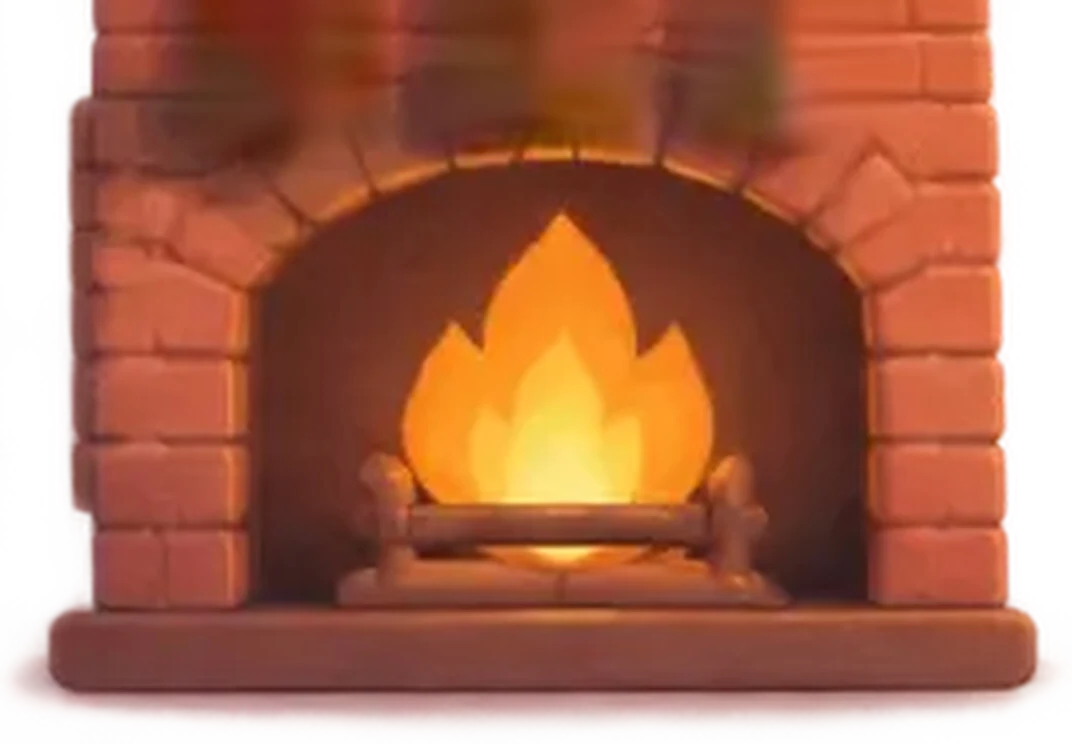
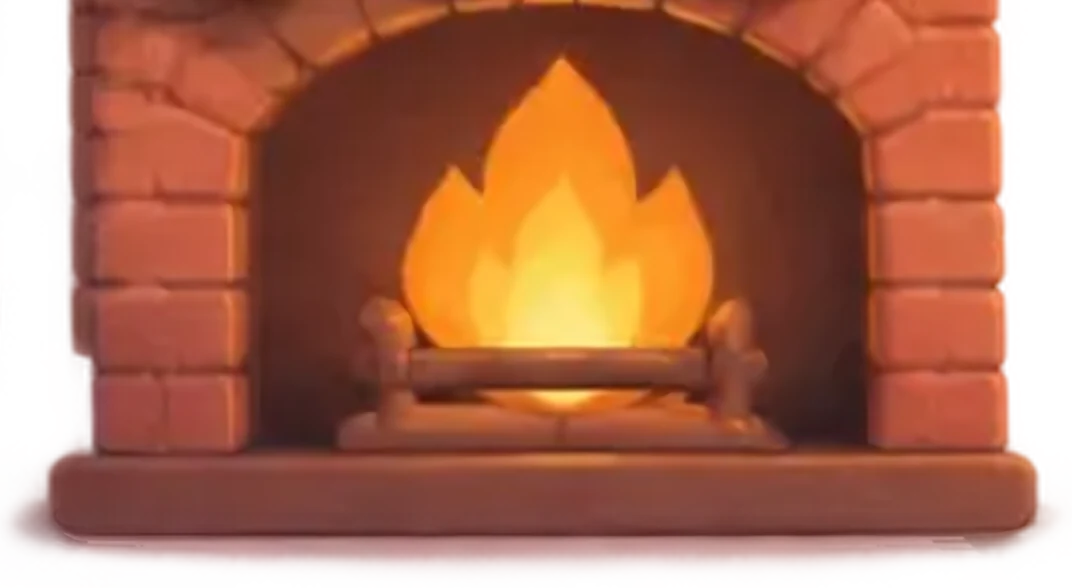
Fireplace: cut below built-in stockings (no retouching), animated flames and embers
Claude-Session: https://claude.ai/code/session_01DcYV4ZTP76Lzk9ANj8ic4t

diff --git a/src/app/globals.css b/src/app/globals.css
@@ -502,7 +502,7 @@ html[data-theme="film"] .countdown-note, html[data-theme="film"] .section-title,
 .hearth--film .hearth__socks { position: relative; z-index: 3; margin-bottom: -34px; }
 .hearth__bottom { position: relative; }
 .hearth__bottom img { display: block; width: 100%; }
-.hearth__glow { position: absolute; left: 22%; right: 22%; top: 30%; bottom: 14%; border-radius: 50%; background: radial-gradient(circle, rgba(255, 190, 90, 0.5), transparent 68%); mix-blend-mode: screen; animation: candle 1.3s ease-in-out infinite alternate; pointer-events: none; }
+.hearth__glow { position: absolute; left: 18%; right: 18%; top: 0; bottom: 18%; border-radius: 50%; background: radial-gradient(circle, rgba(255, 190, 90, 0.5), transparent 68%); mix-blend-mode: screen; animation: candle 1.3s ease-in-out infinite alternate; pointer-events: none; }
 .sock__img { display: block; width: 62px; margin: 0 auto; filter: drop-shadow(0 5px 5px rgba(0, 0, 0, 0.4)); transition: transform 0.2s; }
 .sock:hover .sock__img { transform: translateY(4px) rotate(-4deg); }
 html[data-theme="film"] .sock--c1 .sock__img { filter: hue-rotate(105deg) saturate(0.75) drop-shadow(0 5px 5px rgba(0, 0, 0, 0.4)); }
@@ -546,3 +546,13 @@ html[data-theme="film"] .dialog__body { background: linear-gradient(175deg, #fff
 html[data-theme="film"] .sound-toggle { border: 3px solid #8a5636; box-shadow: 0 8px 16px rgba(0, 0, 0, 0.4); background: linear-gradient(#fff6e6, #f3dcb6); }
 .sound-toggle svg { width: 24px; height: 24px; }
 .sound-toggle--off { opacity: 0.85; }
+
+/* living fire on top of the rendered one */
+.hearth__flames, .hearth__embers { position: absolute; left: 36%; right: 34%; top: 8%; bottom: 30%; pointer-events: none; }
+.hearth__flames i { position: absolute; bottom: 0; border-radius: 50% 50% 50% 50% / 68% 68% 32% 32%; transform-origin: 50% 100%; mix-blend-mode: screen; filter: blur(3px); animation: flame 1.15s ease-in-out infinite alternate; }
+.hearth__flames i:nth-child(1) { left: 22%; width: 56%; height: 100%; background: radial-gradient(ellipse at 50% 80%, #fff3b0 0 18%, #ffb238 45%, rgba(255, 110, 30, 0.55) 70%, transparent 78%); }
+.hearth__flames i:nth-child(2) { left: 0; width: 44%; height: 66%; background: radial-gradient(ellipse at 50% 80%, #ffd76a 0 20%, #ff8a2a 55%, transparent 76%); animation-duration: 0.9s; animation-delay: -0.4s; }
+.hearth__flames i:nth-child(3) { right: 0; width: 44%; height: 72%; background: radial-gradient(ellipse at 50% 80%, #ffd76a 0 20%, #ff8a2a 55%, transparent 76%); animation-duration: 1.35s; animation-delay: -0.8s; }
+.hearth__embers i { position: absolute; bottom: 20%; width: 5px; height: 5px; border-radius: 50%; background: #ffd27a; box-shadow: 0 0 6px 2px rgba(255, 170, 60, 0.8); opacity: 0; animation: ember 3s ease-out infinite; }
+@keyframes flame { 0% { transform: scale(1, 0.86) skewX(-5deg); opacity: 0.75; } 50% { transform: scale(0.92, 1.06) skewX(3deg); opacity: 0.95; } 100% { transform: scale(1.05, 0.94) skewX(6deg); opacity: 0.8; } }
+@keyframes ember { 0% { opacity: 0; transform: translate(0, 0) scale(1); } 15% { opacity: 1; } 100% { opacity: 0; transform: translate(14px, -150px) scale(0.3); } }

diff --git a/src/components/scene/Fireplace.tsx b/src/components/scene/Fireplace.tsx
@@ -28,6 +28,14 @@ export function Fireplace({ children }: { children?: ReactNode }) {
         <div className="hearth__bottom">
           <img src="/film/hearth-bottom.webp" alt="" draggable={false} />
           <span className="hearth__glow" />
+          <span className="hearth__flames" aria-hidden>
+            <i /><i /><i />
+          </span>
+          <span className="hearth__embers" aria-hidden>
+            {[18, 34, 50, 63, 78, 44].map((x, i) => (
+              <i key={i} style={{ left: `${x}%`, animationDelay: `${-i * 0.7}s`, animationDuration: `${2.6 + (i % 3) * 0.7}s` }} />
+            ))}
+          </span>
         </div>
         {/* eslint-enable @next/next/no-img-element */}
       </section>

diff --git a/scripts/build_film_assets.py b/scripts/build_film_assets.py
@@ -10,20 +10,13 @@ sheet1, sheet_up, S, cutdir, out = sys.argv[1], sys.argv[2], int(sys.argv[3]), s
 here = os.path.dirname(os.path.abspath(__file__))
 subprocess.run([sys.executable, f"{here}/cut_assets.py", sheet_up, str(S), cutdir], check=True)
 
-# fireplace: mantel slice as is; lower slice with the three built-in stockings painted out
+# fireplace: mantel slice as is; lower slice cut below the built-in stockings
 X0, X1, Y0, Y1 = 1265, 1533, 80, 416
-MANTEL_END, LOWER_START = 106, 150  # rows inside that crop
+MANTEL_END, LOWER_START = 106, 189  # rows inside that crop
 up = cv2.imread(sheet_up, cv2.IMREAD_UNCHANGED)
 cv2.imwrite(f"{cutdir}/hearth-top.png", up[Y0 * S : (Y0 + MANTEL_END) * S, X0 * S : X1 * S])
-low = cv2.imread(sheet1, cv2.IMREAD_UNCHANGED)[Y0:Y1, X0:X1]
-bgr, alpha = np.ascontiguousarray(low[..., :3]), low[..., 3]
-valid = np.full(bgr.shape[:2], 255, np.uint8)
-for a, b in ((44, 98), (107, 161), (169, 224)):
-    valid[104:188, a:b] = 0
-fixed = np.zeros_like(bgr)
-cv2.xphoto.inpaint(bgr, valid, fixed, cv2.xphoto.INPAINT_FSR_BEST)
-lower = np.dstack([fixed, alpha])[LOWER_START:]
-cv2.imwrite(f"{cutdir}/hearth-bottom.png", cv2.resize(lower, None, fx=S, fy=S, interpolation=cv2.INTER_LANCZOS4))
+# lower slice starts below where the built-in stockings hang, so nothing has to be retouched
+cv2.imwrite(f"{cutdir}/hearth-bottom.png", up[(Y0 + LOWER_START) * S : Y1 * S, X0 * S : X1 * S])
 
 os.makedirs(out, exist_ok=True)
 for f in glob.glob(f"{cutdir}/*.png"):
